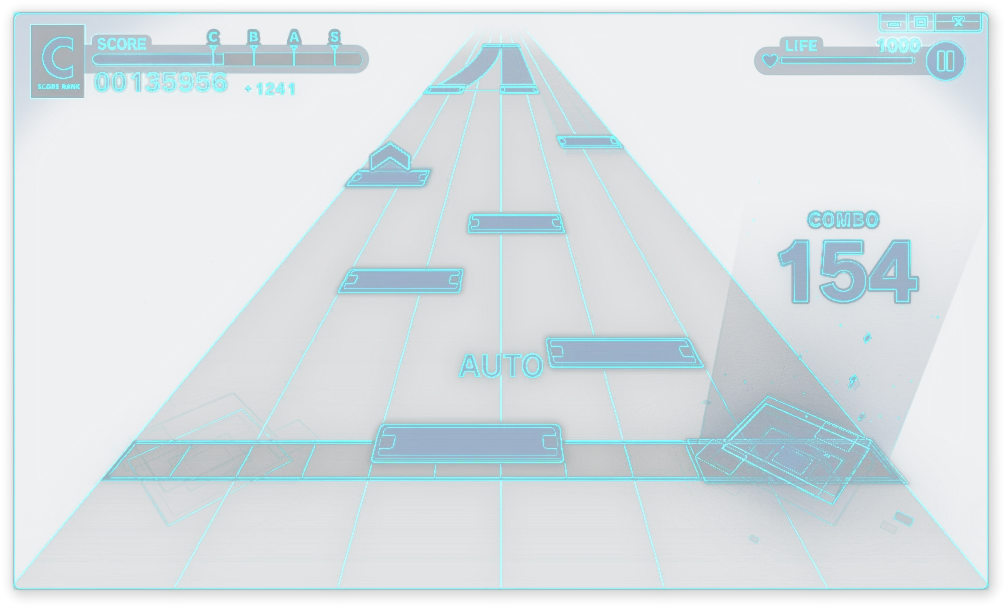
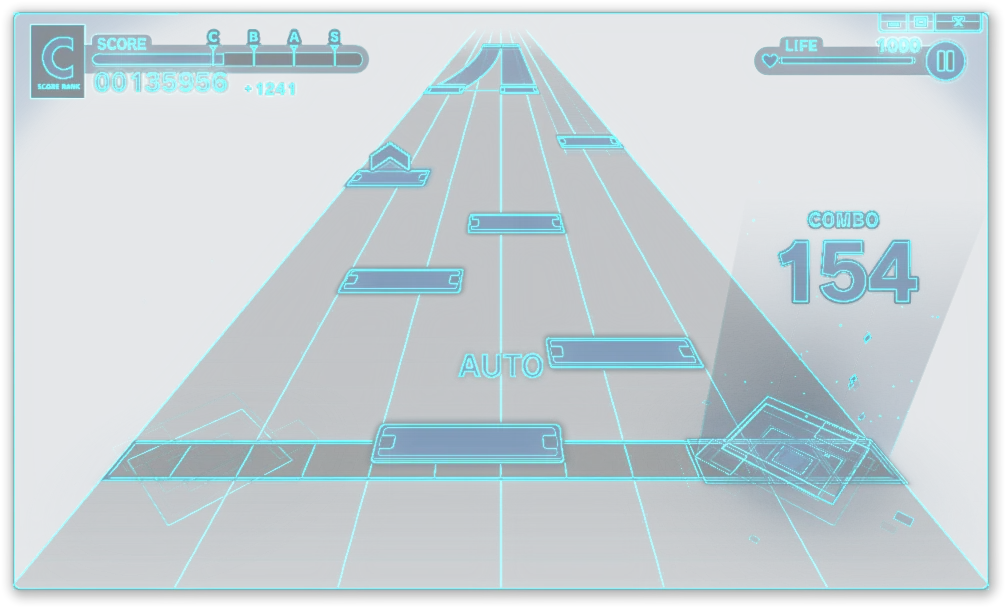
CppSekai 官网：hero 左右各悬一块全息投影，整体上移
- 两张界面截图都上：左 holo.webp（游玩界面）、右 holo2.webp（选曲界面）
- holo.webp 用同一套参数重出（不透明底 .45、描边 ×3.1），否则旧版比新图淡一半
- 落位 top 40vh → 30vh；两块各 left/right:-5% 从画外渗入，朝画面中间那侧遮罩淡出
- 浮动与闪烁相位错开（delay -3.2s / -2.4s），别同步得像一张图被切开
- 实测 1600/1440/1366/1300 四档：与标题的重叠都落在遮罩淡出区里，且不压底部截图卡

diff --git a/support/CppSekai/style.css b/support/CppSekai/style.css
@@ -347,7 +347,7 @@ code {
    ========================================================================== */
 
 /* 标题区一层柔和白纱：KV 铺满后在中间最花，字压上去读不清。
-   白纱只压中间，边缘透明，所以角色立绘仍然完整可见。 */
+   白纱只压中间、边缘透明，两侧的装饰才不会被一起压灰。 */
 .hero-veil {
     position: absolute;
     left: 50%;
@@ -362,22 +362,32 @@ code {
         linear-gradient(180deg, rgba(255, 255, 255, .16), rgba(255, 255, 255, .04));
 }
 
-/* 全息投影 */
+/* 全息投影：左右各悬一块，从画面两边"渗"出来 */
 .hero-holo {
     position: absolute;
-    right: 1%;
-    top: 40vh;
+    top: 30vh;
     z-index: 2;
-    width: min(640px, 33.4vw);
+    width: min(560px, 34vw);
     pointer-events: none;
     /* 天空太亮，纯发光会被冲白 —— 得先用深色投影在底下压出一块暗，青边才读得出来 */
     filter:
         drop-shadow(0 20px 44px rgba(16, 54, 98, .5))
         drop-shadow(0 0 30px rgba(88, 224, 255, .6));
     animation: holo-float 7.5s ease-in-out infinite;
-    /* 左右边缘淡出，让投影从画面里渗出来，不要一条硬边切在背景上 */
-    -webkit-mask-image: linear-gradient(90deg, transparent 0%, #000 8%, #000 92%, transparent 100%);
-    mask-image: linear-gradient(90deg, transparent 0%, #000 8%, #000 92%, transparent 100%);
+}
+
+/* 靠屏幕外的那侧留实，朝画面中间的那侧淡出 —— 免得一条硬边切在标题上 */
+.hero-holo-l {
+    left: -5%;
+    animation-delay: -3.2s;
+    -webkit-mask-image: linear-gradient(90deg, #000 0%, #000 76%, transparent 100%);
+    mask-image: linear-gradient(90deg, #000 0%, #000 76%, transparent 100%);
+}
+
+.hero-holo-r {
+    right: -5%;
+    -webkit-mask-image: linear-gradient(90deg, transparent 0%, #000 24%, #000 100%);
+    mask-image: linear-gradient(90deg, transparent 0%, #000 24%, #000 100%);
 }
 
 .hero-holo img {
@@ -385,6 +395,11 @@ code {
     width: 100%;
     filter: brightness(1.22) saturate(1.1);
     animation: holo-flicker 6s steps(1, end) infinite;
+}
+
+/* 两块别同步 —— 一起闪一起浮会像同一张图被切开了 */
+.hero-holo-r img {
+    animation-delay: -2.4s;
 }
 
 /* 缓慢上下浮 + 一点点透视倾斜，像悬在空中的投影 */

diff --git a/support/CppSekai/index.html b/support/CppSekai/index.html
@@ -138,7 +138,8 @@
             <span class="note hero-note-2" aria-hidden="true"><img src="assets/deco/note-1.png" alt=""></span>
             <span class="crystal hero-crystal" aria-hidden="true"><img src="assets/deco/crystal-2.webp" alt=""></span>
             <span class="hero-veil" aria-hidden="true"></span>
-            <span class="hero-holo" aria-hidden="true"><img src="assets/holo2.webp" alt="" width="1413" height="837"></span>
+            <span class="hero-holo hero-holo-l" aria-hidden="true"><img src="assets/holo.webp" alt="" width="1007" height="609"></span>
+            <span class="hero-holo hero-holo-r" aria-hidden="true"><img src="assets/holo2.webp" alt="" width="1413" height="837"></span>
             <div class="shell hero-in">
                 <p class="tag">课间十分钟</p>
                 <h1><img class="hero-logo" src="assets/logo-word.png" alt="CppSekai" width="1900" height="443"></h1>
